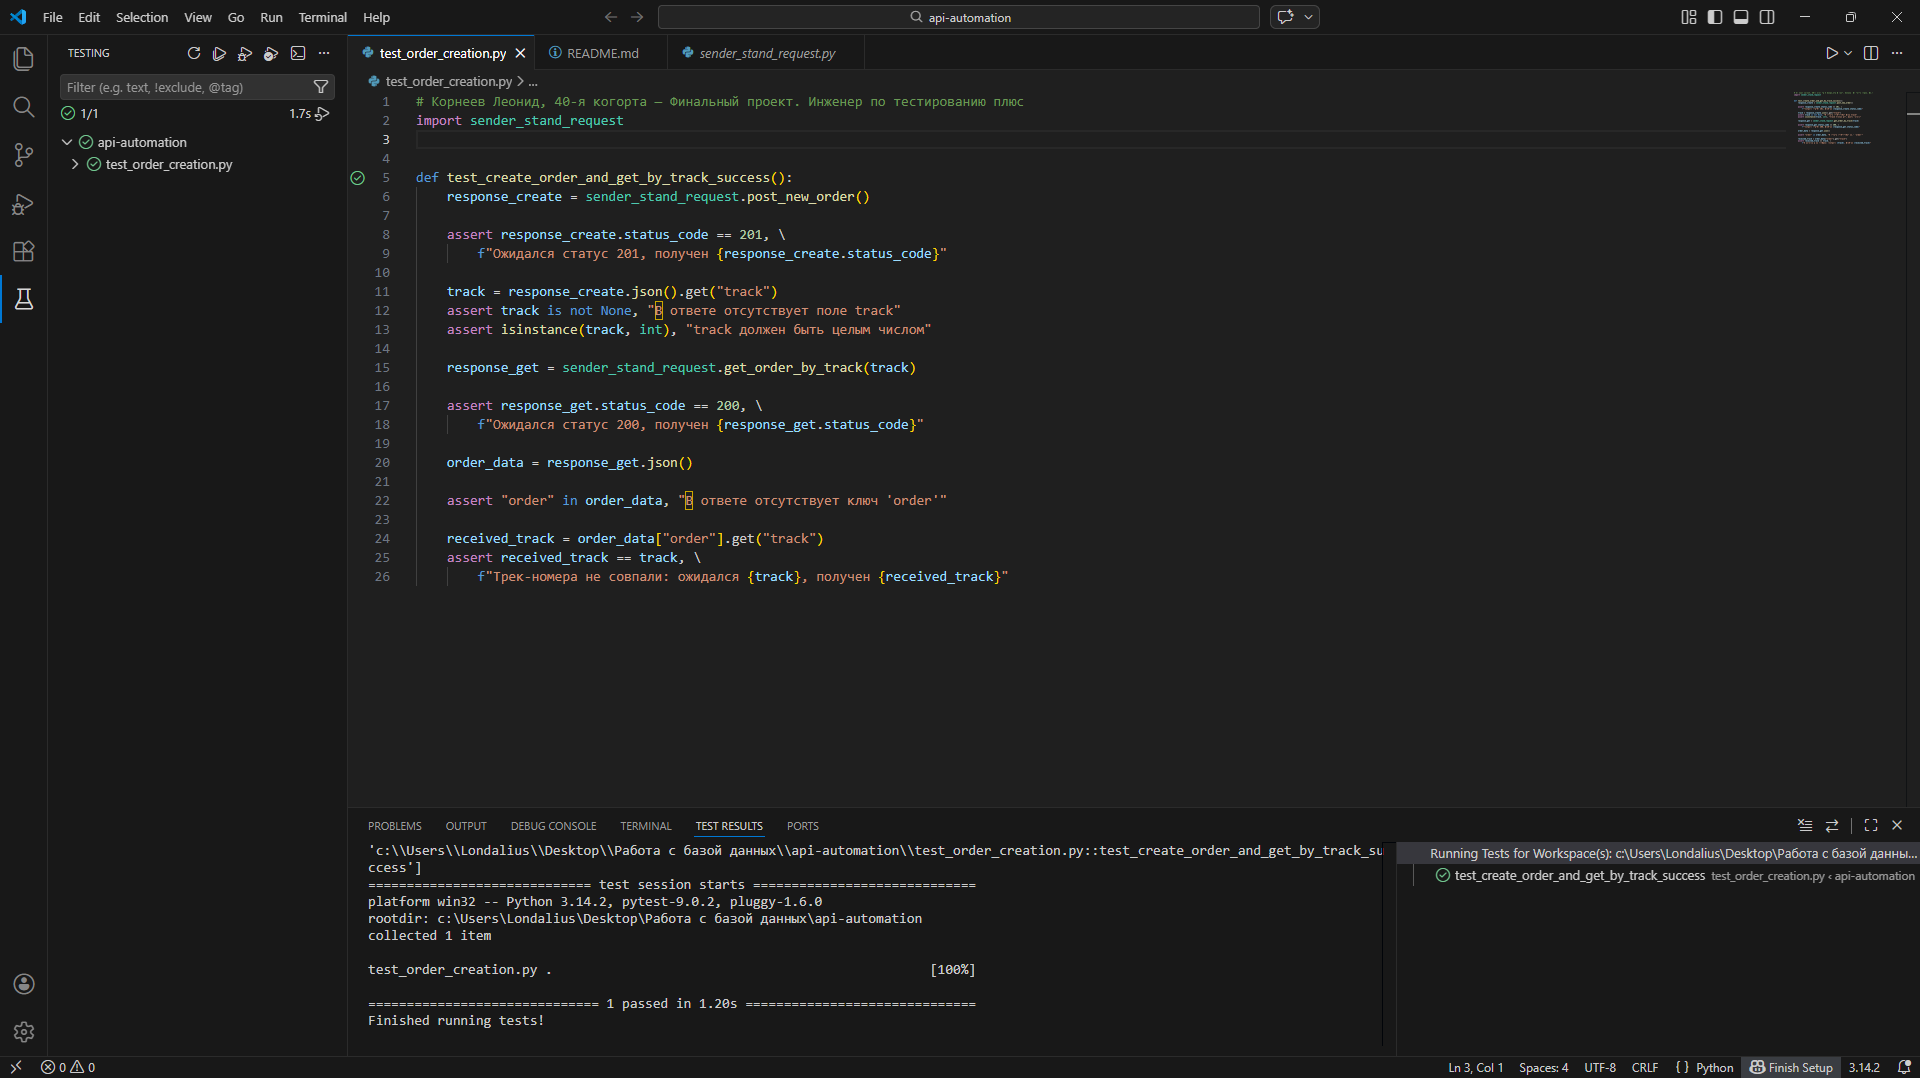
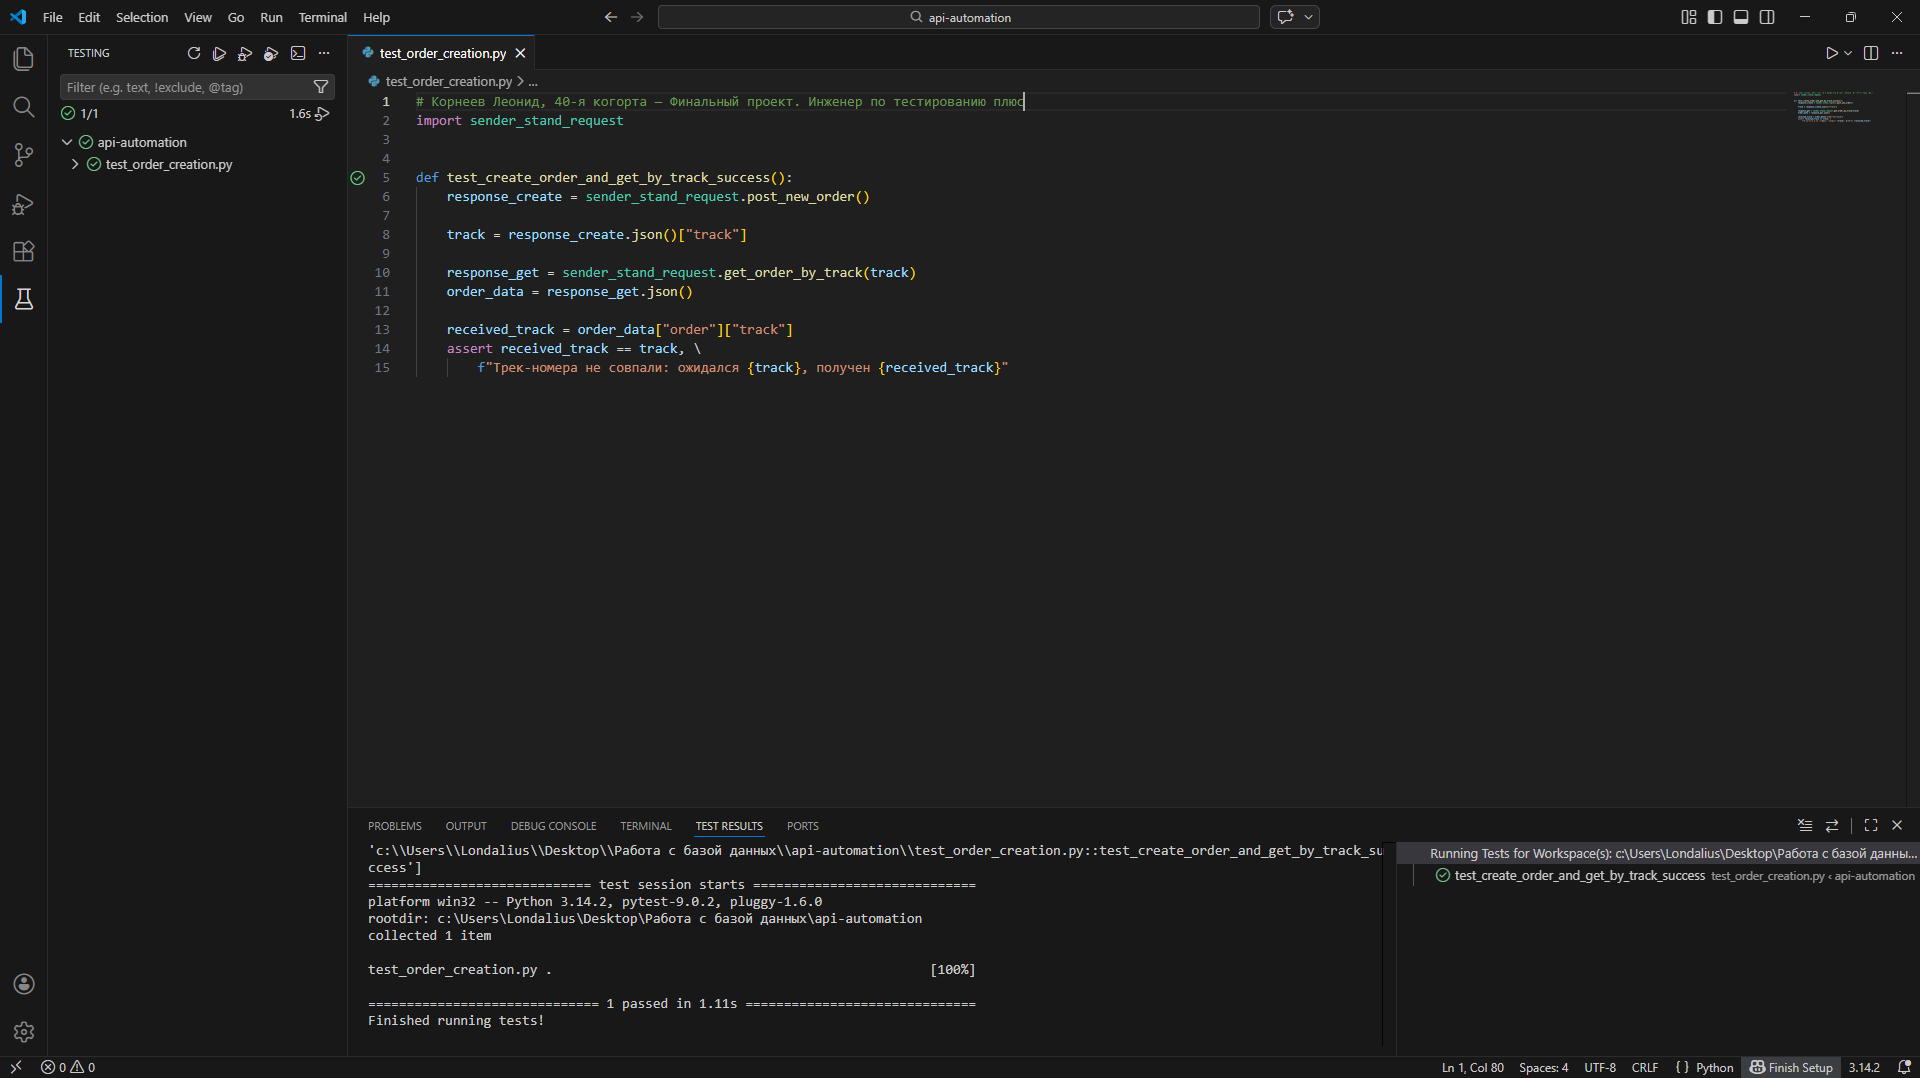
Практический блок: вторая часть финального проекта

diff --git a/api-automation/test_order_creation.py b/api-automation/test_order_creation.py
@@ -5,22 +5,11 @@ import sender_stand_request
 def test_create_order_and_get_by_track_success():
     response_create = sender_stand_request.post_new_order()
     
-    assert response_create.status_code == 201, \
-        f"Ожидался статус 201, получен {response_create.status_code}"
-    
-    track = response_create.json().get("track")
-    assert track is not None, "В ответе отсутствует поле track"
-    assert isinstance(track, int), "track должен быть целым числом"
+    track = response_create.json()["track"]
     
     response_get = sender_stand_request.get_order_by_track(track)
-    
-    assert response_get.status_code == 200, \
-        f"Ожидался статус 200, получен {response_get.status_code}"
-    
     order_data = response_get.json()
     
-    assert "order" in order_data, "В ответе отсутствует ключ 'order'"
-    
-    received_track = order_data["order"].get("track")
+    received_track = order_data["order"]["track"]
     assert received_track == track, \
         f"Трек-номера не совпали: ожидался {track}, получен {received_track}"

diff --git a/api-automation/configuration.py b/api-automation/configuration.py
@@ -1,4 +1,4 @@
-URL_SERVICE = "https://41da23c9-a41f-448a-a742-09864acdd326.serverhub.praktikum-services.ru"
+URL_SERVICE = "https://5cfc79a6-d021-425b-93af-310f44bc2c7a.serverhub.praktikum-services.ru"
 
 CREATE_ORDER_PATH = "/api/v1/orders"
 GET_ORDER_BY_TRACK_PATH = "/api/v1/orders/track"
